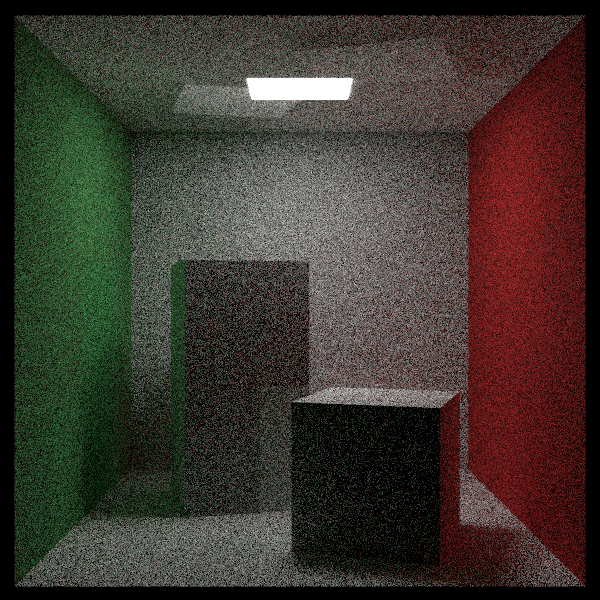
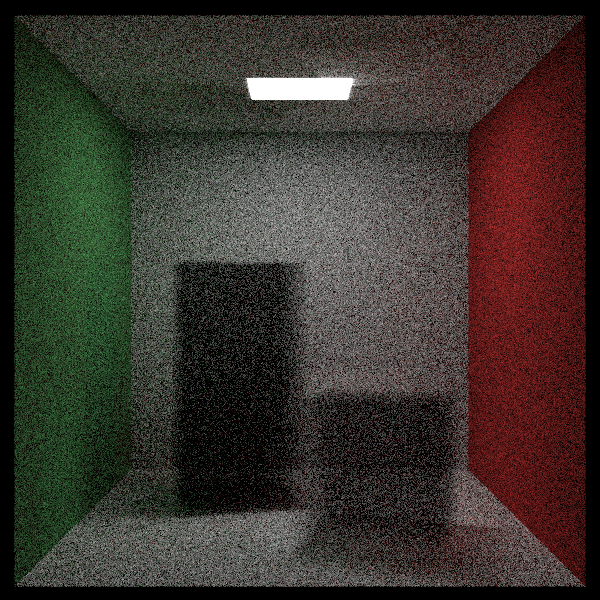
Implement volumes

diff --git a/src/main.rs b/src/main.rs
@@ -2,11 +2,13 @@ mod aabb;
 mod bvh_node;
 mod camera;
 mod color;
+mod constant_medium;
 mod dielectric;
 mod diffuse_light;
 mod geo_box;
 mod hittable;
 mod hittable_list;
+mod isotropic;
 mod lambertian;
 mod material;
 mod metal;
@@ -24,6 +26,7 @@ use crate::{dielectric::Dielectric, lambertian::Lambertian, metal::Metal};
 use camera::*;
 use cliffy::{Vec3, Vector};
 use color::Color;
+use constant_medium::ConstantMedium;
 use diffuse_light::DiffuseLight;
 use geo_box::GeoBox;
 use hittable::Hittable;
@@ -367,6 +370,103 @@ fn cornell_box() -> HittableList {
     objects
 }
 
+fn cornell_smoke() -> HittableList {
+    let mut objects = HittableList::empty();
+
+    let red = Rc::new(Lambertian::new(Rc::new(Texture::SolidColor(Color::new(
+        0.65, 0.05, 0.05,
+    )))));
+    let white = Rc::new(Lambertian::new(Rc::new(Texture::SolidColor(Color::new(
+        0.73, 0.73, 0.73,
+    )))));
+    let green = Rc::new(Lambertian::new(Rc::new(Texture::SolidColor(Color::new(
+        0.12, 0.45, 0.15,
+    )))));
+    let light = Rc::new(DiffuseLight::new(Rc::new(Texture::SolidColor(Color::new(
+        15.0, 15.0, 15.0,
+    )))));
+
+    objects.add(Rc::new(Hittable::YZRect(YZRect::new(
+        green.clone(),
+        0.0,
+        555.0,
+        0.0,
+        555.0,
+        555.0,
+    ))));
+    objects.add(Rc::new(Hittable::YZRect(YZRect::new(
+        red.clone(),
+        0.0,
+        555.0,
+        0.0,
+        555.0,
+        0.0,
+    ))));
+    objects.add(Rc::new(Hittable::XZRect(XZRect::new(
+        light.clone(),
+        213.0,
+        343.0,
+        227.0,
+        332.0,
+        554.0,
+    ))));
+    objects.add(Rc::new(Hittable::XZRect(XZRect::new(
+        white.clone(),
+        0.0,
+        555.0,
+        0.0,
+        555.0,
+        0.0,
+    ))));
+    objects.add(Rc::new(Hittable::XZRect(XZRect::new(
+        white.clone(),
+        0.0,
+        555.0,
+        0.0,
+        555.0,
+        555.0,
+    ))));
+    objects.add(Rc::new(Hittable::XYRect(XYRect::new(
+        white.clone(),
+        0.0,
+        555.0,
+        0.0,
+        555.0,
+        555.0,
+    ))));
+
+    let mut box1 = Rc::new(Hittable::Box(GeoBox::new(
+        &Vec3::new(0.0, 0.0, 0.0),
+        &Vec3::new(165.0, 330.0, 165.0),
+        white.clone(),
+    )));
+    box1 = Rc::new(Hittable::RotateY(RotateY::new(box1, 15.0)));
+    box1 = Rc::new(Hittable::Translate(Translate::new(
+        box1,
+        Vec3::new(265.0, 0.0, 295.0),
+    )));
+
+    let mut box2 = Rc::new(Hittable::Box(GeoBox::new(
+        &Vec3::new(0.0, 0.0, 0.0),
+        &Vec3::new(165.0, 165.0, 165.0),
+        white.clone(),
+    )));
+    box2 = Rc::new(Hittable::RotateY(RotateY::new(box2, -18.0)));
+    box2 = Rc::new(Hittable::Translate(Translate::new(
+        box2,
+        Vec3::new(130.0, 0.0, 65.0),
+    )));
+
+    objects.add(Rc::new(Hittable::ConstantMedium(
+        ConstantMedium::with_color(box1, 0.01, Color::black()),
+    )));
+    objects.add(Rc::new(Hittable::ConstantMedium(
+        ConstantMedium::with_color(box2, 0.01, Color::white()),
+    )));
+
+    objects
+}
+
 fn main() {
     // Image
     let mut aspect_ratio = 16.0 / 9.0;
@@ -428,8 +528,19 @@ fn main() {
             vfov = 20.0;
         }
 
-        _ => {
+        6 => {
             world = cornell_box();
+            aspect_ratio = 1.0;
+            image_width = 600;
+            samples_per_pixel = 200;
+            background = Color::black();
+            look_from = Vec3::new(278.0, 278.0, -800.0);
+            look_at = Vec3::new(278.0, 278.0, 0.0);
+            vfov = 40.0;
+        }
+
+        _ => {
+            world = cornell_smoke();
             aspect_ratio = 1.0;
             image_width = 600;
             samples_per_pixel = 200;

diff --git a/src/constant_medium.rs b/src/constant_medium.rs
@@ -1,0 +1,104 @@
+use cliffy::{Vec3, Vector};
+
+use crate::{
+    aabb::AABB,
+    color::Color,
+    hittable::{HitRecord, Hittable},
+    isotropic::Isotropic,
+    material::Material,
+    ray::Ray,
+    texture::Texture,
+    utilities,
+};
+use std::rc::Rc;
+
+pub struct ConstantMedium {
+    pub boundary: Rc<Hittable>,
+    pub phase_function: Rc<dyn Material>,
+    pub neg_inv_density: f32,
+}
+
+impl ConstantMedium {
+    pub fn new(b: Rc<Hittable>, d: f32, a: Rc<Texture>) -> Self {
+        Self {
+            boundary: b,
+            phase_function: Rc::new(Isotropic::new(a)),
+            neg_inv_density: -1.0 / d,
+        }
+    }
+
+    pub fn with_color(b: Rc<Hittable>, d: f32, c: Color) -> Self {
+        Self {
+            boundary: b,
+            phase_function: Rc::new(Isotropic::with_color(c)),
+            neg_inv_density: -1.0 / d,
+        }
+    }
+
+    pub fn hit(&self, r: &Ray, t_min: f32, t_max: f32) -> Option<HitRecord> {
+        // Print occasional samples when debugging. To enable, set enableDebug true.
+        let enableDebug = false;
+        let debugging = enableDebug && utilities::random_float() < 0.00001;
+
+        let mut rec1;
+        if let Some(r) = self.boundary.hit(r, -f32::INFINITY, f32::INFINITY) {
+            rec1 = r;
+        } else {
+            return None;
+        }
+
+        let mut rec2;
+        if let Some(r) = self.boundary.hit(r, rec1.t + 0.0001, f32::INFINITY) {
+            rec2 = r;
+        } else {
+            return None;
+        }
+
+        if debugging {
+            println!("\nt_min = {}, t_max = {}", rec1.t, rec2.t);
+        }
+
+        if rec1.t < t_min {
+            rec1.t = t_min;
+        }
+        if rec2.t > t_max {
+            rec2.t = t_max;
+        }
+
+        if rec1.t >= rec2.t {
+            return None;
+        }
+
+        if rec1.t < 0.0 {
+            rec1.t = 0.0;
+        }
+
+        let ray_length = r.direction.mag();
+        let distance_inside_boundary = (rec2.t - rec1.t) * ray_length;
+        let hit_distance = self.neg_inv_density * utilities::random_float().ln();
+
+        if hit_distance > distance_inside_boundary {
+            return None;
+        }
+
+        let mut rec = HitRecord::with_mat_only(self.phase_function.clone());
+        rec.t = rec.t + hit_distance / ray_length;
+        rec.point = r.at(rec.t);
+
+        if debugging {
+            println!(
+                "hit_distance = {}\nrec.t = {}\nrec.point = {:?}",
+                hit_distance, rec.t, rec.point
+            );
+        }
+
+        rec.normal = Vec3::new(1.0, 0.0, 0.0); // arbitrary
+        rec.front_face = true; // also arbitrary
+
+        Some(rec)
+    }
+
+    pub fn bounding_box(&self, time0: f32, time1: f32) -> Option<AABB> {
+        self.boundary.bounding_box(time0, time1)
+    }
+}

diff --git a/src/hittable.rs b/src/hittable.rs
@@ -1,6 +1,7 @@
 use crate::{
     aabb::AABB,
     bvh_node::BVHNode,
+    constant_medium::ConstantMedium,
     geo_box::GeoBox,
     material::Material,
     moving_sphere::MovingSphere,
@@ -65,6 +66,7 @@ pub enum Hittable {
     Box(GeoBox),
     Translate(Translate),
     RotateY(RotateY),
+    ConstantMedium(ConstantMedium),
 }
 
 impl Hittable {
@@ -79,6 +81,7 @@ impl Hittable {
             Hittable::Box(geo_box) => geo_box.hit(r, t_min, t_max),
             Hittable::Translate(trans) => trans.hit(r, t_min, t_max),
             Hittable::RotateY(rot) => rot.hit(r, t_min, t_max),
+            Hittable::ConstantMedium(med) => med.hit(r, t_min, t_max),
         }
     }
 
@@ -93,6 +96,7 @@ impl Hittable {
             Hittable::Box(geo_box) => geo_box.bounding_box(time0, time1),
             Hittable::Translate(trans) => trans.bounding_box(time0, time1),
             Hittable::RotateY(rot) => rot.bounding_box(time0, time1),
+            Hittable::ConstantMedium(med) => med.bounding_box(time0, time1),
         }
     }
 }

diff --git a/src/isotropic.rs b/src/isotropic.rs
@@ -1,0 +1,35 @@
+use cliffy::{Vec2, Vec3};
+
+use crate::{
+    color::Color, hittable::HitRecord, material::Material, ray::Ray, texture::Texture, utilities,
+};
+use std::rc::Rc;
+
+pub struct Isotropic {
+    pub albedo: Rc<Texture>,
+}
+
+impl Isotropic {
+    pub fn new(albedo: Rc<Texture>) -> Self {
+        Self { albedo }
+    }
+
+    pub fn with_color(c: Color) -> Self {
+        Self {
+            albedo: Rc::new(Texture::SolidColor(c)),
+        }
+    }
+}
+
+impl Material for Isotropic {
+    fn scatter(&self, r_in: &Ray, rec: &HitRecord) -> (bool, Color, Ray) {
+        let scattered = Ray::with_time(rec.point, utilities::random_in_sphere(), r_in.time);
+        let attenuation = self.albedo.value(&rec.uv, &rec.point);
+
+        (true, attenuation, scattered)
+    }
+
+    fn emitted(&self, uv: &Vec2, p: &Vec3) -> Color {
+        Color::black()
+    }
+}
